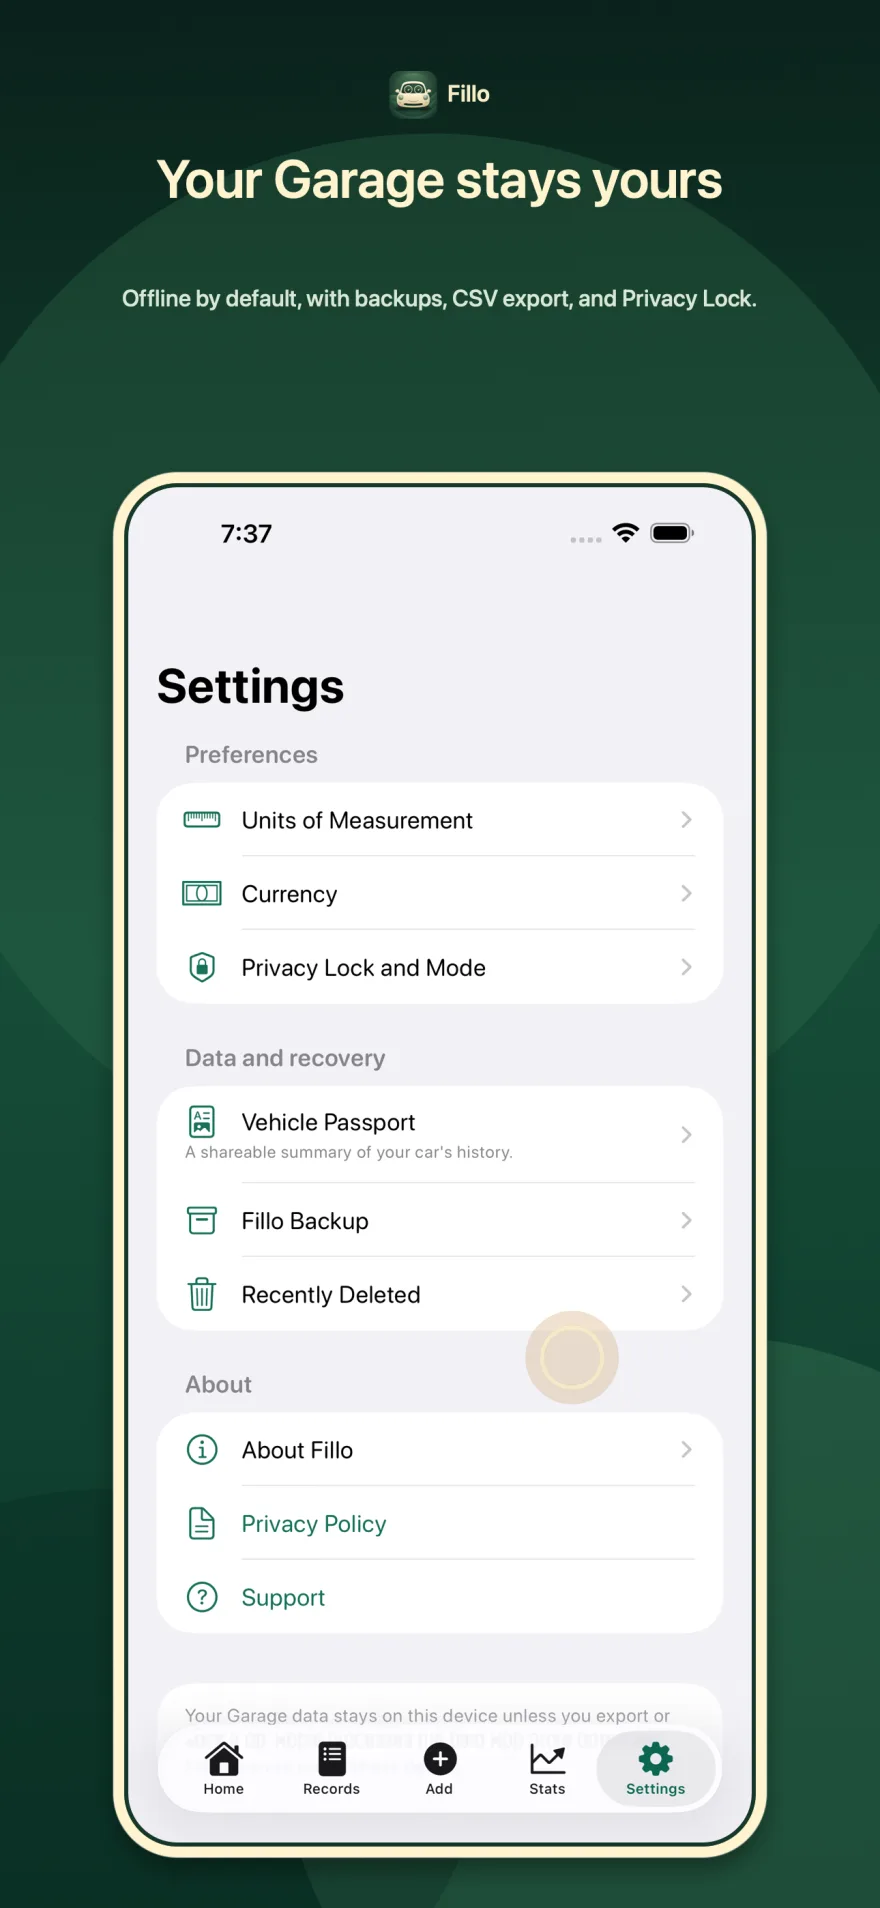
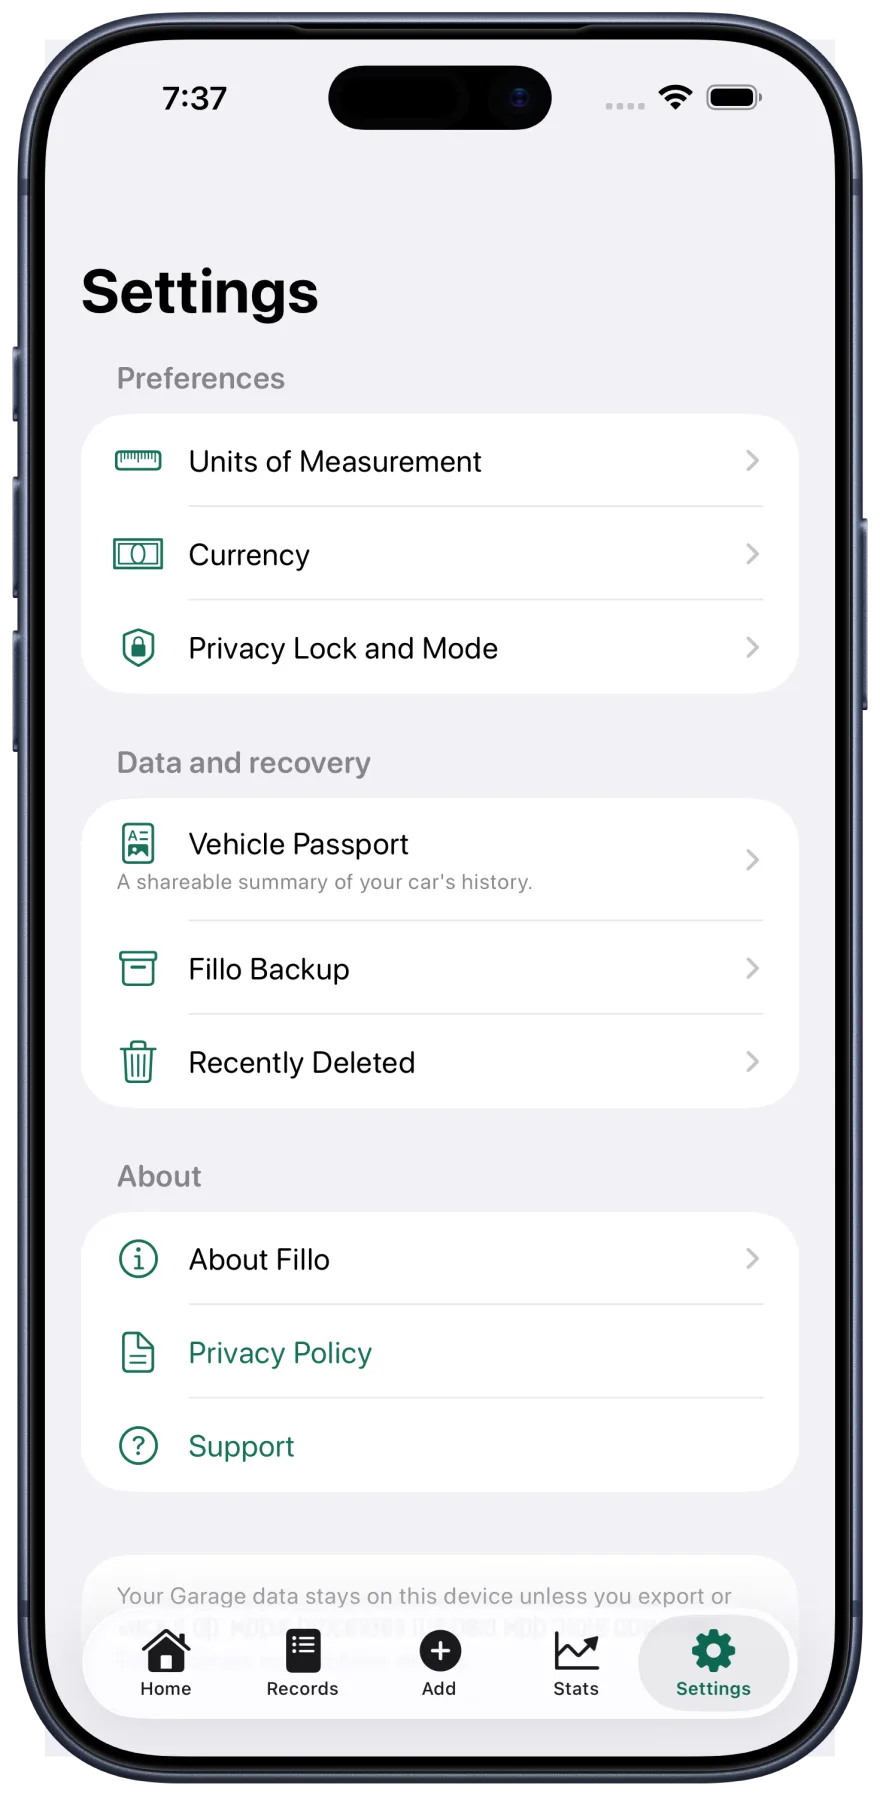
Use official Apple bezels on landing page

diff --git a/index.html b/index.html
@@ -113,7 +113,7 @@
             <img src="assets/img/screenshots/dashboard.webp"
                  srcset="assets/img/screenshots/dashboard-440.webp 440w, assets/img/screenshots/dashboard-660.webp 660w, assets/img/screenshots/dashboard.webp 880w"
                  sizes="(max-width: 900px) 82vw, 340px"
-                 alt="Fillo screenshot: the Home dashboard showing a car’s running cost, recent fuel-ups, and upcoming reminders, with Philippine peso amounts." width="880" height="1907" fetchpriority="high">
+                 alt="Fillo screenshot in an Apple iPhone frame: the Home dashboard showing a car’s running cost, recent fuel-ups, and upcoming reminders, with Philippine peso amounts." width="880" height="1796" fetchpriority="high">
           </div>
           <p class="hero-visual-caption">The Fillo Home screen, with sample data.</p>
         </div>
@@ -157,7 +157,7 @@
 
         <figure class="stop-shot reveal flush">
           <div class="shot">
-            <img src="assets/img/screenshots/cost-ahead.webp" alt="Fillo screenshot: the Cost Ahead screen listing upcoming costs for the next 30, 90, and 365 days." width="880" height="1907" loading="lazy" decoding="async">
+            <img src="assets/img/screenshots/cost-ahead.webp" alt="Fillo screenshot in an Apple iPhone frame: the Cost Ahead screen listing upcoming costs for the next 30, 90, and 365 days." width="880" height="1796" loading="lazy" decoding="async">
           </div>
           <figcaption class="shot-caption">The Cost Ahead screen, with sample data.</figcaption>
         </figure>
@@ -191,7 +191,7 @@
             </div>
             <figure class="stop-shot flush">
               <div class="shot">
-                <img src="assets/img/screenshots/fuel-form.webp" alt="Fillo fuel-up entry form with odometer, quantity, unit price, and total cost fields." width="880" height="1907" loading="lazy" decoding="async">
+                <img src="assets/img/screenshots/fuel-form.webp" alt="Fillo fuel-up entry form in an Apple iPhone frame, with odometer, quantity, unit price, and total cost fields." width="880" height="1796" loading="lazy" decoding="async">
               </div>
               <figcaption class="shot-caption">The fuel-up form, with sample data.</figcaption>
             </figure>
@@ -213,7 +213,7 @@
             </div>
             <figure class="stop-shot flush">
               <div class="shot">
-                <img src="assets/img/screenshots/reminders.webp" alt="Fillo reminders screen showing date-based and odometer-based service reminders." width="880" height="1907" loading="lazy" decoding="async">
+                <img src="assets/img/screenshots/reminders.webp" alt="Fillo reminders screen in an Apple iPhone frame, showing date-based and odometer-based service reminders." width="880" height="1796" loading="lazy" decoding="async">
               </div>
               <figcaption class="shot-caption">The reminders screen, with sample data.</figcaption>
             </figure>
@@ -227,7 +227,7 @@
             </div>
             <figure class="stop-shot flush">
               <div class="shot">
-                <img src="assets/img/screenshots/glovebox.webp" alt="Fillo Glovebox screen listing vehicle documents such as registration and insurance with renewal dates." width="880" height="1907" loading="lazy" decoding="async">
+                <img src="assets/img/screenshots/glovebox.webp" alt="Fillo Glovebox screen in an Apple iPhone frame, listing vehicle documents such as registration and insurance with renewal dates." width="880" height="1796" loading="lazy" decoding="async">
               </div>
               <figcaption class="shot-caption">Glovebox, with sample data.</figcaption>
             </figure>
@@ -241,7 +241,7 @@
             </div>
             <figure class="stop-shot flush">
               <div class="shot">
-                <img src="assets/img/screenshots/vehicle-passport.webp" alt="Fillo Vehicle Passport screen summarizing a car’s ownership history." width="880" height="1907" loading="lazy" decoding="async">
+                <img src="assets/img/screenshots/vehicle-passport.webp" alt="Fillo Vehicle Passport screen in an Apple iPhone frame, summarizing a car’s ownership history." width="880" height="1796" loading="lazy" decoding="async">
               </div>
               <figcaption class="shot-caption">The Vehicle Passport screen, with sample data.</figcaption>
             </figure>
@@ -268,28 +268,28 @@
 
         <div class="demo-panel" role="tabpanel" id="panel-cost" aria-labelledby="tab-cost">
           <div class="shot">
-            <img src="assets/img/screenshots/cost-ahead.webp" alt="Fillo Cost Ahead screen listing upcoming maintenance, renewals, and recurring costs." width="880" height="1907" loading="lazy" decoding="async">
+            <img src="assets/img/screenshots/cost-ahead.webp" alt="Fillo Cost Ahead screen in an Apple iPhone frame, listing upcoming maintenance, renewals, and recurring costs." width="880" height="1796" loading="lazy" decoding="async">
           </div>
           <p class="demo-caption">Upcoming costs for the next 30, 90, and 365 days, estimated from the records you already saved.</p>
         </div>
 
         <div class="demo-panel" role="tabpanel" id="panel-reminders" aria-labelledby="tab-reminders">
           <div class="shot">
-            <img src="assets/img/screenshots/reminders.webp" alt="Fillo reminders screen showing date-based and odometer-based reminders." width="880" height="1907" loading="lazy" decoding="async">
+            <img src="assets/img/screenshots/reminders.webp" alt="Fillo reminders screen in an Apple iPhone frame, showing date-based and odometer-based reminders." width="880" height="1796" loading="lazy" decoding="async">
           </div>
           <p class="demo-caption">Set reminders by date, odometer, or both. Whichever comes first makes the item due.</p>
         </div>
 
         <div class="demo-panel" role="tabpanel" id="panel-glovebox" aria-labelledby="tab-glovebox">
           <div class="shot">
-            <img src="assets/img/screenshots/glovebox.webp" alt="Fillo Glovebox screen listing vehicle documents with renewal dates." width="880" height="1907" loading="lazy" decoding="async">
+            <img src="assets/img/screenshots/glovebox.webp" alt="Fillo Glovebox screen in an Apple iPhone frame, listing vehicle documents with renewal dates." width="880" height="1796" loading="lazy" decoding="async">
           </div>
           <p class="demo-caption">Registration, insurance, receipts, and renewal dates, with photos, scans, or PDFs attached.</p>
         </div>
 
         <div class="demo-panel" role="tabpanel" id="panel-passport" aria-labelledby="tab-passport">
           <div class="shot">
-            <img src="assets/img/screenshots/vehicle-passport.webp" alt="Fillo Vehicle Passport screen summarizing a car’s ownership history." width="880" height="1907" loading="lazy" decoding="async">
+            <img src="assets/img/screenshots/vehicle-passport.webp" alt="Fillo Vehicle Passport screen in an Apple iPhone frame, summarizing a car’s ownership history." width="880" height="1796" loading="lazy" decoding="async">
           </div>
           <p class="demo-caption">Turn a car’s record into a private PDF for a mechanic, insurer, or buyer.</p>
         </div>

diff --git a/assets/css/styles.css b/assets/css/styles.css
@@ -406,7 +406,7 @@ a { color: var(--primary-dark); text-underline-offset: 3px; }
   padding: 7px 14px;
 }
 
-/* Hero visual: plain framed screenshot — no simulated device chrome. */
+/* Hero visual: raw app capture inside Apple's official hardware bezel. */
 .hero-visual {
   position: relative;
   justify-self: center;
@@ -414,11 +414,10 @@ a { color: var(--primary-dark); text-underline-offset: 3px; }
 }
 .hero-visual .shot {
   position: relative;
-  border-radius: 34px;
-  border: 1px solid rgba(24, 113, 91, 0.18);
-  box-shadow: var(--card-shadow);
-  overflow: hidden;
-  background: #fff;
+  border: 0;
+  box-shadow: none;
+  overflow: visible;
+  background: transparent;
 }
 .hero-visual .shot img { width: 100%; }
 .hero-visual-caption {
@@ -447,11 +446,11 @@ a { color: var(--primary-dark); text-underline-offset: 3px; }
 /* Shot frame shared by all sections ---------------------------------------- */
 
 .shot {
-  border-radius: var(--radius);
-  border: 1px solid rgba(24, 113, 91, 0.16);
-  box-shadow: var(--card-shadow);
-  overflow: hidden;
-  background: #fff;
+  border-radius: 0;
+  border: 0;
+  box-shadow: none;
+  overflow: visible;
+  background: transparent;
 }
 .shot img { width: 100%; }
 

diff --git a/README.md b/README.md
@@ -8,10 +8,9 @@ tracker for iPhone and iPad. Three pages:
 - `support.html` — `/support` (FAQ + contact)
 - `privacy.html` — `/privacy` (policy generated from verified app behavior)
 
-The current paid-upfront and privacy copy follows
+The paid-upfront and privacy copy follows
 `../fillo/app-store-assets/APP_STORE_RELEASE_BLOCKERS.md` plus direct source and
-compiled-product inspection. The older product specification and metadata still
-need monetization reconciliation. Every site claim is tracked in
+compiled-product inspection. Every site claim is tracked in
 [CONTENT-AUDIT.md](CONTENT-AUDIT.md).
 
 ## Local preview
@@ -21,8 +20,28 @@ python3 -m http.server 8080
 # open http://localhost:8080
 ```
 
-No build step. Deploy by uploading the directory as-is (minus `tools/` and
-`verification/` if you prefer).
+The checked-in optimized assets make the site directly deployable. Deploy by
+uploading the directory as-is (minus `tools/` and `verification/` if you prefer).
+
+## Regenerating screenshots
+
+The landing page does **not** use the App Store marketing compositions. It takes
+the current raw iPhone captures from
+`../fillo/app-store-assets/raw-screenshots/iphone/`, places them directly inside
+Apple's official iPhone 17 Pro Max hardware bezel, and writes optimized WebP
+assets.
+
+Download the iPhone 17 Product Bezels kit from
+[Apple Design Resources](https://developer.apple.com/design/resources/), accept
+Apple's license, and mount the disk image. Then run:
+
+```sh
+FILLO_IPHONE_BEZEL_PATH='/path/to/iPhone 17 Pro Max - Deep Blue - Portrait.png' \
+  ./tools/build-assets.sh
+```
+
+The licensed source bezel is intentionally not committed. App Store listing
+artwork remains separately generated in `../fillo/app-store-assets/screenshots/`.
 
 ## GitHub Pages first deployment
 
@@ -37,13 +56,9 @@ This directory is ready for branch-based GitHub Pages hosting. The included
 5. Record the generated URL. A project site normally uses
    `https://<account>.github.io/<repository>/`; an account site uses
    `https://<account>.github.io/`.
-6. Before indexing the site, replace the temporary `https://fillo.com` canonical,
-   Open Graph, sitemap, and robots URLs with that exact GitHub Pages URL.
-7. Set Fillo's Release configuration URLs to the published `privacy.html` and
-   `support.html` pages, then open both from a real iPhone.
-
-The GitHub account/repository URL is intentionally not guessed. Add a `CNAME`
-file only when moving from the GitHub Pages URL to a confirmed custom domain.
+6. Confirm the custom domain `https://fillo.dexterbrylle.com/` resolves to the
+   published Pages site and that HTTPS enforcement is enabled.
+7. Open `/support` and `/privacy` from a real iPhone.
 
 ## Structure
 
@@ -53,11 +68,12 @@ robots.txt  sitemap.xml
 assets/
   css/styles.css        design tokens mirror fillo/App/Theme.swift
   js/main.js            progressive enhancement only (site works without JS)
-  img/screenshots/      real app screenshots, WebP (see tools/build-assets.sh)
+  img/screenshots/      raw captures in Apple's official iPhone bezel, WebP
   img/                  app icon, favicons, og-image.png
 tools/
   og.html               editable source for the social preview image
   build-assets.sh       regenerates all optimized assets from repo sources
+  frame-iphone-screenshots.swift  composites raw captures into Apple's bezel
   verify.js             browser verification (24 checks) via playwright
   package.json          dev tooling only — never shipped
 verification/           full-page screenshots at 320→1440 px
@@ -68,7 +84,7 @@ CONTENT-AUDIT.md        verified claims, placeholders, publishing blockers
 ## Publishing blockers
 
 See [CONTENT-AUDIT.md §3](CONTENT-AUDIT.md). Short version: App Store URL,
-owner review, GitHub Pages URL, price decision, and preview-host noindex. All
+owner review, price decision, and preview-host noindex. All
 swap points are marked `<!-- PUBLISHING BLOCKER -->` in the HTML.
 
 ## Accessibility & behavior notes
@@ -77,4 +93,5 @@ swap points are marked `<!-- PUBLISHING BLOCKER -->` in the HTML.
 - Honors `prefers-reduced-motion` (no parallax, no reveals, no bar animation).
 - Keyboard: skip link first, mobile menu Escape + focus return, demo tabs use
   roving tabindex with Arrow/Home/End keys.
-- No fake OS chrome, no fake email capture, no dead links, no placeholder URLs.
+- Official Apple hardware artwork is used for the device bezel; no fake email
+  capture, dead links, or policy/support placeholders remain.

diff --git a/CONTENT-AUDIT.md b/CONTENT-AUDIT.md
@@ -1,9 +1,8 @@
 # Content Audit — Fillo Landing Site
 
-Audit date: September 1, 2026, against the current `fillo` working tree,
+Audit date: September 4, 2026, against the current `fillo` working tree,
 `app-store-assets/APP_STORE_RELEASE_BLOCKERS.md`, direct source inspection, and
-the compiled Release simulator product. The older product specification and
-metadata remain listed as repository-reconciliation blockers.
+the compiled Release simulator product.
 
 ## 1. Claims verified against the repository
 
@@ -46,25 +45,19 @@ metadata remain listed as repository-reconciliation blockers.
    `support.html`, `privacy.html`.
 2. **Owner review of the privacy policy** — it was generated from code behavior;
    it is not legal advice.
-3. **Provide the initial GitHub Pages URL** — canonical, Open Graph, sitemap,
-   and robots URLs still use the future `https://fillo.com` custom domain.
-4. **Confirm price wording** — no price is shown on the site (see discrepancy 1
-   below). If ₱299 launch pricing is final, add it to the purchase section.
-5. **Confirm copyright year** in the footer (currently © 2026, matching the
+3. **Confirm price wording** — no numeric price is shown on the site. This keeps
+   the site accurate across localized storefronts until the launch price is final.
+4. **Confirm copyright year** in the footer (currently © 2026, matching the
    repo's dating).
-6. **Confirm "independently made"** footer/tagline wording.
-7. **Preview-deployment noindex** — configure `X-Robots-Tag: noindex` for
+5. **Confirm "independently made"** footer/tagline wording.
+6. **Preview-deployment noindex** — configure `X-Robots-Tag: noindex` for
    preview environments at the host; `robots.txt` documents this.
-8. **Eyeball screenshot alt text** — written from the documented screenshot
-   story (`app-store-assets/README.md`); image rendering was unavailable in the
-   build environment, so visually confirm each description matches its screen.
 
 ## 4. Discrepancies between app, spec, and site copy
 
-1. **Launch price and mechanism**: `metadata.md` still says the app is free with
-   a ₱299/₱399 lifetime IAP, while the approved blocker guide now specifies a
-   paid download and suggests US$4.99 as a starting point. → Site correctly shows
-   no numeric price. Reconcile the metadata/spec and confirm App Store pricing.
+1. **Launch price**: the paid-download mechanism is reconciled across the app,
+   metadata, specification, and site. The exact App Store launch price remains an
+   owner decision, so the site correctly shows no numeric price.
 2. **CSV import versioning**: the spec's roadmap lists CSV import for v1.1, but
    `CSVImportView.swift` ships in the v1.0 codebase and `metadata.md` promotes
    CSV import. → Site copy is version-neutral ("CSV import accepts official
@@ -89,9 +82,10 @@ metadata remain listed as repository-reconciliation blockers.
 
 ## 6. Asset sourcing
 
-- Site screenshots: `app-store-assets/screenshots/iphone-6.9-1290x2796/*.png`
-  (the composed App Store frames with real product UI), converted to 880px WebP.
-- Social preview device shot: chrome-free raw capture
-  `raw-screenshots/iphone/02-cost-ahead.png` (a marketing frame inside the OG
-  device mock would double-frame).
-- Both regenerated by `tools/build-assets.sh`.
+- Site screenshots: `app-store-assets/raw-screenshots/iphone/*.png`, composited
+  directly into Apple's official iPhone 17 Pro Max product bezel and converted
+  to 880px WebP. App Store marketing compositions are not used.
+- Social preview device shot: the same raw Cost Ahead capture in the official
+  Apple hardware bezel.
+- Both are regenerated by `tools/build-assets.sh`; the licensed bezel is supplied
+  through `FILLO_IPHONE_BEZEL_PATH` and is not committed.

diff --git a/HERO-MANIFEST.md b/HERO-MANIFEST.md
@@ -12,11 +12,12 @@ AI-generated imagery, stock photography, or third-party assets are used.
 | 3 | Soft blob (bottom left) | `.hero-blob.b2` | CSS radial shape | `0.22` | derived light green at 80% opacity |
 | 4 | Road line | `.hero-road` | CSS repeating-linear-gradient | `0.05` | dashed primary `#18715B` at 30% opacity; horizontal under the hero, continues as the vertical road in the Vehicle Passport section |
 | 5 | Copy block | `.hero-copy` | HTML | none (static) | eyebrow / headline / lede / CTAs / fact pills |
-| 6 | App screenshot | `.hero-visual .shot img` | `assets/img/screenshots/dashboard.webp` ← `app-store-assets/raw-screenshots/iphone/01-dashboard.png` | `0.06` | real Fillo Home screen with deterministic sample data; plain rounded frame, no simulated device chrome |
+| 6 | App screenshot | `.hero-visual .shot img` | `assets/img/screenshots/dashboard.webp` ← raw Fillo capture + Apple's official iPhone 17 Pro Max product bezel | `0.06` | real Fillo Home screen with deterministic sample data; no App Store headline/background artwork |
 
 ## Source assets
 
 - `../fillo/app-store-assets/raw-screenshots/iphone/01-dashboard.png` — 1320×2868 real simulator capture (see `app-store-assets/README.md` for the capture test).
+- Apple Design Resources — official iPhone 17 Pro Max portrait PNG, provided at build time through `FILLO_IPHONE_BEZEL_PATH` and not redistributed as a source asset.
 - Palette values from `fillo/App/Theme.swift` (`FilloTheme`).
 - Regenerate optimized versions with `tools/build-assets.sh` (cwebp, sips, playwright).
 
